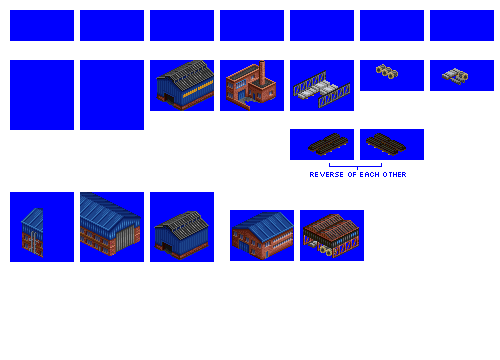
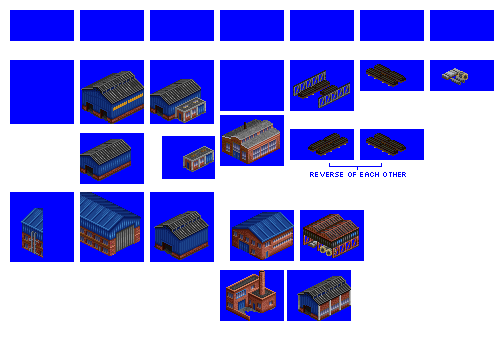
Change: WIP on long products mill sprites

diff --git a/src/industries/long_products_mill.py b/src/industries/long_products_mill.py
@@ -30,13 +30,13 @@ spriteset_ground_overlay = industry.add_spriteset(
     type='empty'
 )
 spriteset_1 = industry.add_spriteset(
-    sprites=[(10, 60, 64, 70, -31, -35)],
+    sprites=[(10, 60, 64, 64, -31, -33)],
 )
 spriteset_2 = industry.add_spriteset(
-    sprites=[(80, 60, 64, 70, -31, -35)],
+    sprites=[(80, 60, 64, 64, -31, -33)],
 )
 spriteset_3 = industry.add_spriteset(
-    sprites=[(150, 60, 64, 51, -31, -20)],
+    sprites=[(150, 60, 64, 64, -31, -33)],
 )
 spriteset_4 = industry.add_spriteset(
     sprites=[(220, 60, 64, 51, -31, -23)],
@@ -110,58 +110,20 @@ industry.add_spritelayout(
 
 industry.add_industry_layout(
     id='long_products_mill_industry_layout_1',
-    layout=[(0, 0, 'long_products_mill_tile_1', 'long_products_mill_spritelayout_3'),
-            (0, 1, 'long_products_mill_tile_1', 'long_products_mill_spritelayout_3'),
-            (0, 2, 'long_products_mill_tile_1', 'long_products_mill_spritelayout_4'),
+    layout=[(0, 0, 'long_products_mill_tile_1', 'long_products_mill_spritelayout_2'),
+            (0, 1, 'long_products_mill_tile_1', 'long_products_mill_spritelayout_2'),
+            (0, 2, 'long_products_mill_tile_1', 'long_products_mill_spritelayout_3'),
             (0, 3, 'long_products_mill_tile_1', 'long_products_mill_spritelayout_6'),
             (0, 4, 'long_products_mill_tile_1', 'long_products_mill_spritelayout_5'),
-            (1, 0, 'long_products_mill_tile_1', 'long_products_mill_spritelayout_3'),
-            (1, 1, 'long_products_mill_tile_1', 'long_products_mill_spritelayout_3'),
+            (1, 0, 'long_products_mill_tile_1', 'long_products_mill_spritelayout_2'),
+            (1, 1, 'long_products_mill_tile_1', 'long_products_mill_spritelayout_2'),
             (1, 2, 'long_products_mill_tile_1', 'long_products_mill_spritelayout_7'),
             (1, 3, 'long_products_mill_tile_1', 'long_products_mill_spritelayout_6'),
             (1, 4, 'long_products_mill_tile_1', 'long_products_mill_spritelayout_5'),
-            (2, 0, 'long_products_mill_tile_1', 'long_products_mill_spritelayout_3'),
+            (2, 0, 'long_products_mill_tile_1', 'long_products_mill_spritelayout_6'),
             (2, 1, 'long_products_mill_tile_1', 'long_products_mill_spritelayout_1'),
-            (2, 2, 'long_products_mill_tile_1', 'long_products_mill_spritelayout_2'),
+            (2, 2, 'long_products_mill_tile_1', 'long_products_mill_spritelayout_6'),
             (2, 3, 'long_products_mill_tile_1', 'long_products_mill_spritelayout_7'),
             (2, 4, 'long_products_mill_tile_1', 'long_products_mill_spritelayout_6'),
-            ]
-)
-industry.add_industry_layout(
-    id='long_products_mill_industry_layout_2',
-    layout=[(0, 2, 'long_products_mill_tile_1', 'long_products_mill_spritelayout_3'),
-            (0, 3, 'long_products_mill_tile_1', 'long_products_mill_spritelayout_3'),
-            (1, 0, 'long_products_mill_tile_1', 'long_products_mill_spritelayout_1'),
-            (1, 1, 'long_products_mill_tile_1', 'long_products_mill_spritelayout_2'),
-            (1, 2, 'long_products_mill_tile_1', 'long_products_mill_spritelayout_3'),
-            (1, 3, 'long_products_mill_tile_1', 'long_products_mill_spritelayout_3'),
-            (2, 0, 'long_products_mill_tile_1', 'long_products_mill_spritelayout_7'),
-            (2, 1, 'long_products_mill_tile_1', 'long_products_mill_spritelayout_7'),
-            (2, 2, 'long_products_mill_tile_1', 'long_products_mill_spritelayout_6'),
-            (2, 3, 'long_products_mill_tile_1', 'long_products_mill_spritelayout_6'),
-            (3, 0, 'long_products_mill_tile_1', 'long_products_mill_spritelayout_4'),
-            (3, 1, 'long_products_mill_tile_1', 'long_products_mill_spritelayout_5'),
-            (3, 2, 'long_products_mill_tile_1', 'long_products_mill_spritelayout_5'),
-            (3, 3, 'long_products_mill_tile_1', 'long_products_mill_spritelayout_5'),
-            ]
-)
-industry.add_industry_layout(
-    id='long_products_mill_industry_layout_3',
-    layout=[(0, 0, 'long_products_mill_tile_1', 'long_products_mill_spritelayout_3'),
-            (0, 1, 'long_products_mill_tile_1', 'long_products_mill_spritelayout_3'),
-            (0, 2, 'long_products_mill_tile_1', 'long_products_mill_spritelayout_3'),
-            (0, 3, 'long_products_mill_tile_1', 'long_products_mill_spritelayout_5'),
-            (1, 0, 'long_products_mill_tile_1', 'long_products_mill_spritelayout_3'),
-            (1, 1, 'long_products_mill_tile_1', 'long_products_mill_spritelayout_3'),
-            (1, 2, 'long_products_mill_tile_1', 'long_products_mill_spritelayout_3'),
-            (1, 3, 'long_products_mill_tile_1', 'long_products_mill_spritelayout_6'),
-            (2, 0, 'long_products_mill_tile_1', 'long_products_mill_spritelayout_5'),
-            (2, 1, 'long_products_mill_tile_1', 'long_products_mill_spritelayout_1'),
-            (2, 2, 'long_products_mill_tile_1', 'long_products_mill_spritelayout_2'),
-            (2, 3, 'long_products_mill_tile_1', 'long_products_mill_spritelayout_7'),
-            (3, 0, 'long_products_mill_tile_1', 'long_products_mill_spritelayout_5'),
-            (3, 1, 'long_products_mill_tile_1', 'long_products_mill_spritelayout_4'),
-            (3, 2, 'long_products_mill_tile_1', 'long_products_mill_spritelayout_7'),
-            (3, 3, 'long_products_mill_tile_1', 'long_products_mill_spritelayout_6'),
             ]
 )
